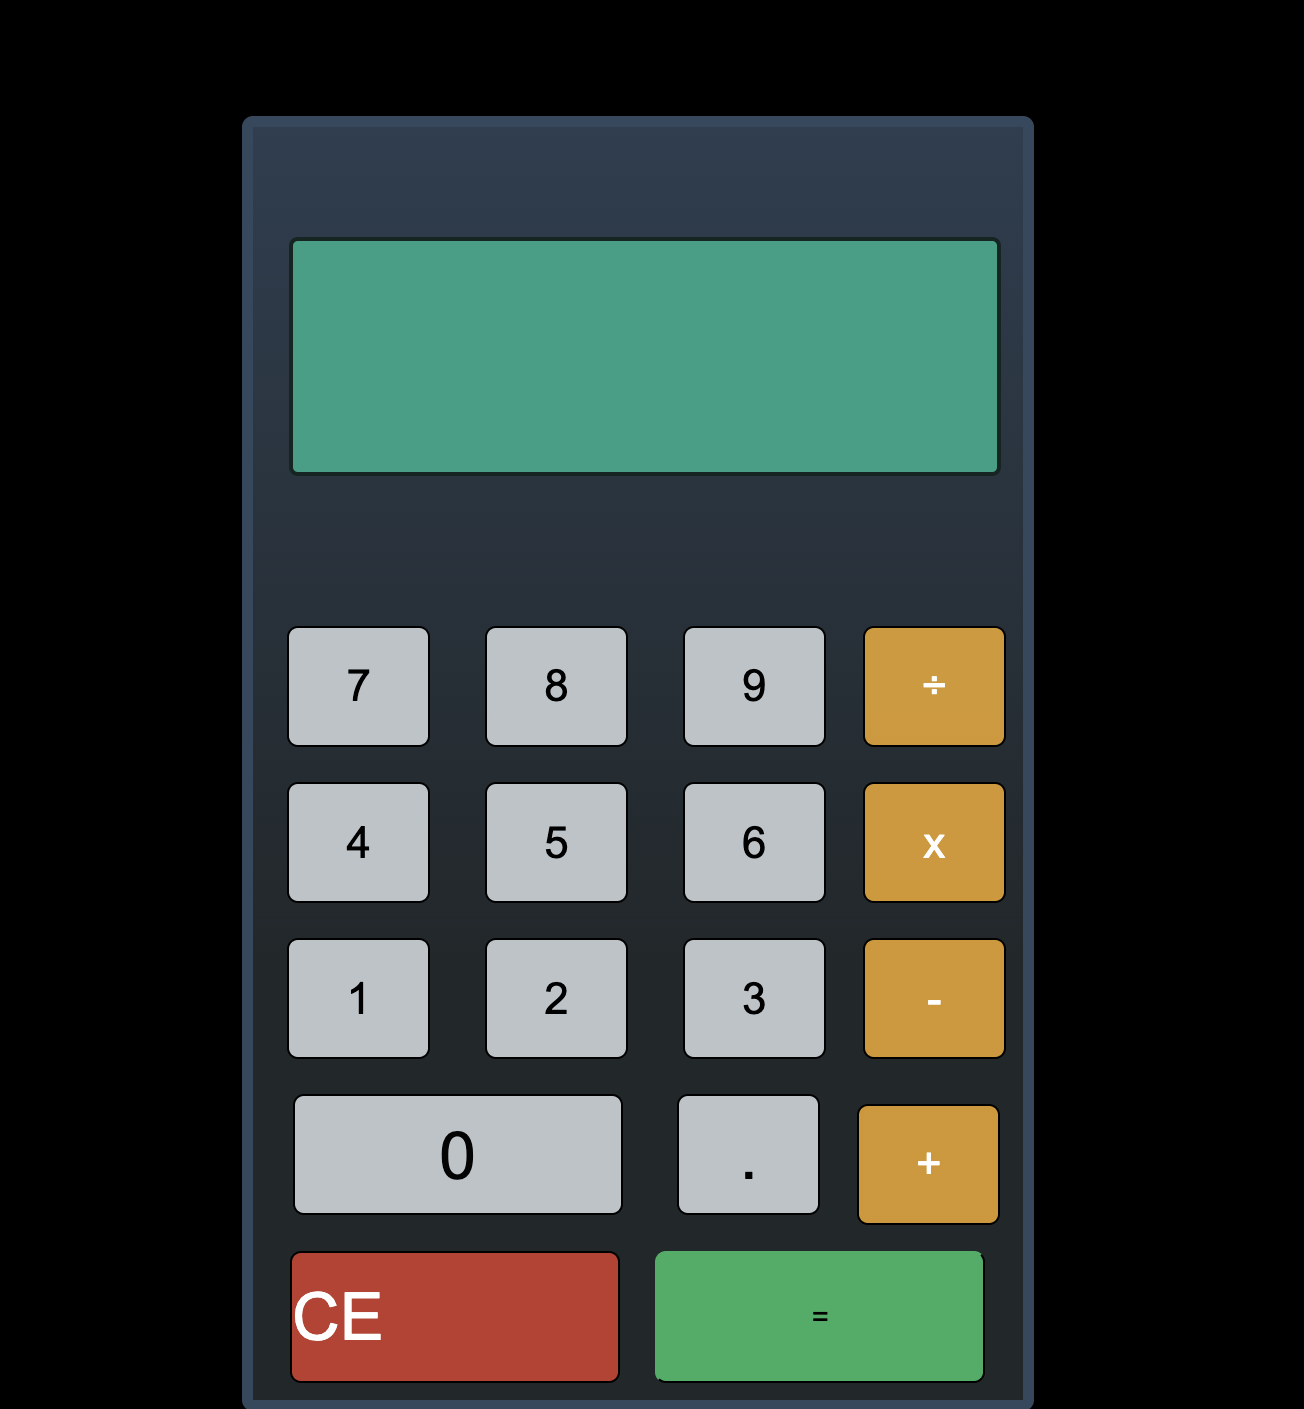
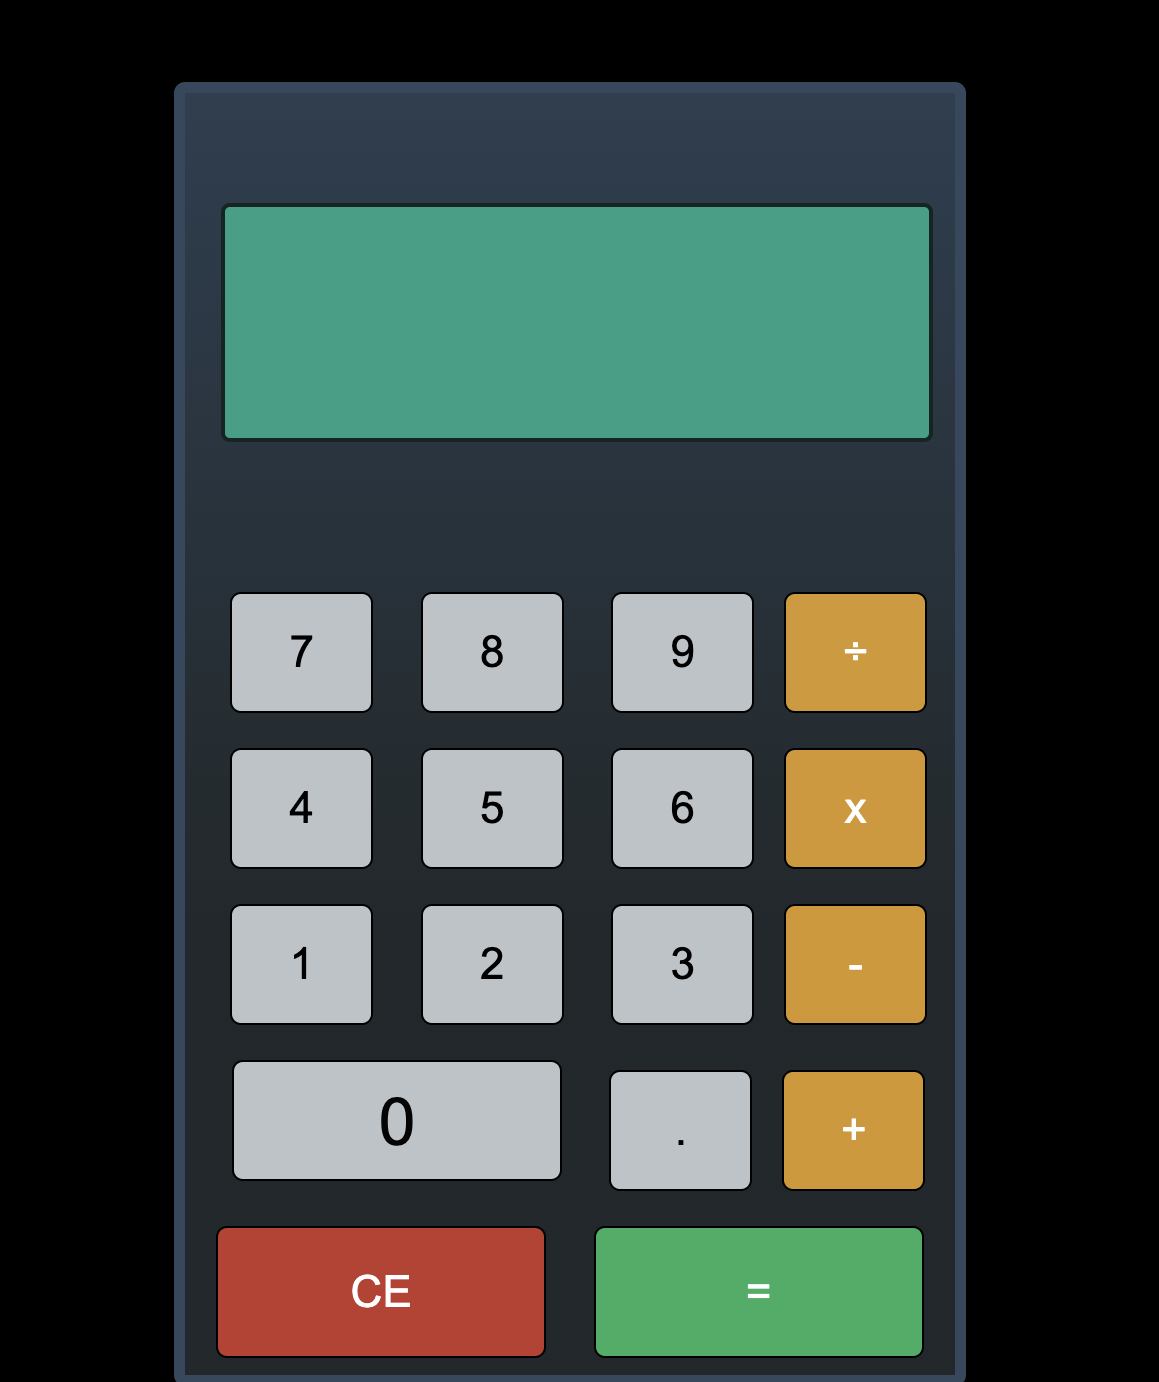
update readme and styles

Changed region(s): [[0.1242, 0.0622, 0.8387, 1.0]]

diff --git a/calculator.js b/calculator.js
@@ -1,7 +1,9 @@
 const buttons = document.getElementsByClassName('number-btn')
 const operators = document.getElementsByClassName('operator-btn')
 const displayResult = document.getElementById('numberDisplay')
+const equalButton = document.getElementById('equalBtn')
 
+const clearButton = document.getElementById('clearBtn')
 const buttonsArray = [...buttons]
 const operatorArray = [...operators]
 let firstOperandArray = []
@@ -9,7 +11,6 @@ let secondOperandArray = []
 let operation = ''
 let result = ''
 
-const clearButton = document.getElementById('clear')
 clearButton.addEventListener('click', () => {
   displayResult.textContent = ''
   firstOperandArray = []
@@ -120,8 +121,6 @@ const operatorEvents = (operatorArray) => {
 function convertToNumbers(value) {
   return Number(value)
 }
-
-const equalButton = document.getElementById('equal-btn')
 
 equalButton.addEventListener('click', () => {
   if (operation === '+') {

diff --git a/styles.css b/styles.css
@@ -6,6 +6,7 @@ body {
 
 #title {
   margin-top: 10px;
+  letter-spacing: 5px;
   text-align: center;
   color: #16a085;
 }
@@ -89,35 +90,23 @@ body {
 }
 
 #clearBtn {
-  float: left;
-  display: flex;
-  align-items: center;
-  color: white;
   background-color: #c0392b;
-  font-size: 30px;
-  width: 150px;
-  height: 60px;
-  border-radius: 5px;
-  cursor: pointer;
-  border: solid black 1px;
 }
 
-#decimalBtn {
-  font-size: 30px;
+#equalBtn {
+  background-color: #27ae60;
 }
 
 .equal-btn,
 .clear-btn {
-  background-color: #27ae60;
+  color: white;
+  font-size: 20px;
   width: 150px;
   height: 60px;
   margin: 8px;
   display: inline-block;
   border-radius: 5px;
-  border-right: solid black 1px;
-  border-bottom: solid black 1px;
-  border-top: solid #27ae60 1px;
-  border-left: solid #27ae60 1px;
+  border: solid black 1px;
   padding: 10px 0px 10px 0px;
   cursor: pointer;
 }

diff --git a/index.html b/index.html
@@ -44,7 +44,7 @@
         </div>
         <div>
           <button
-            id="clear"
+            id="clearBtn"
             class="clear-btn"
             onclick="document.getElementById(
           'numberDisplay').value = ''"
@@ -52,7 +52,7 @@
           >
             CE
           </button>
-          <button class="operator-btn, equal-btn" id="equal-btn" value="=">
+          <button class="operator-btn, equal-btn" id="equalBtn" value="=">
             =
           </button>
         </div>
